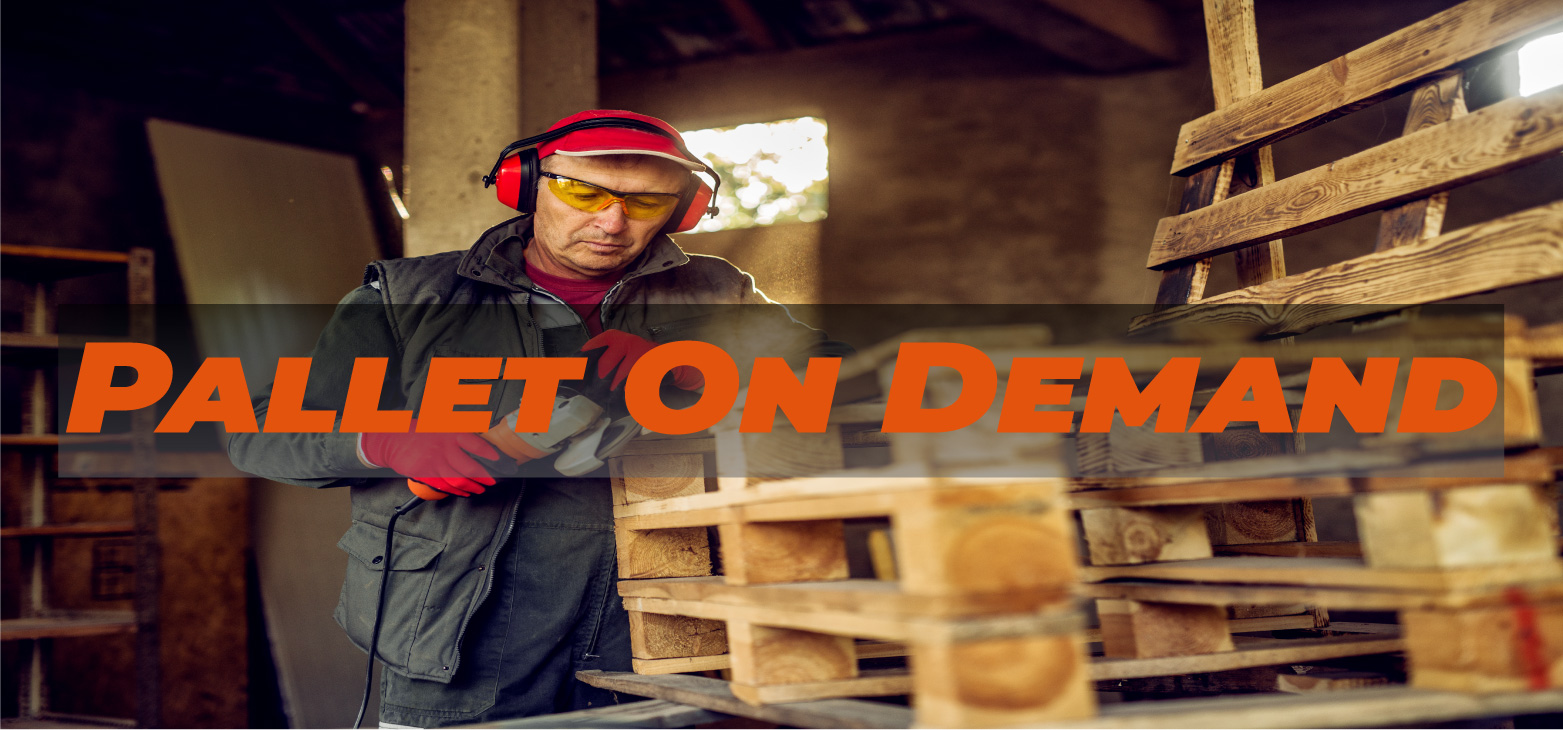
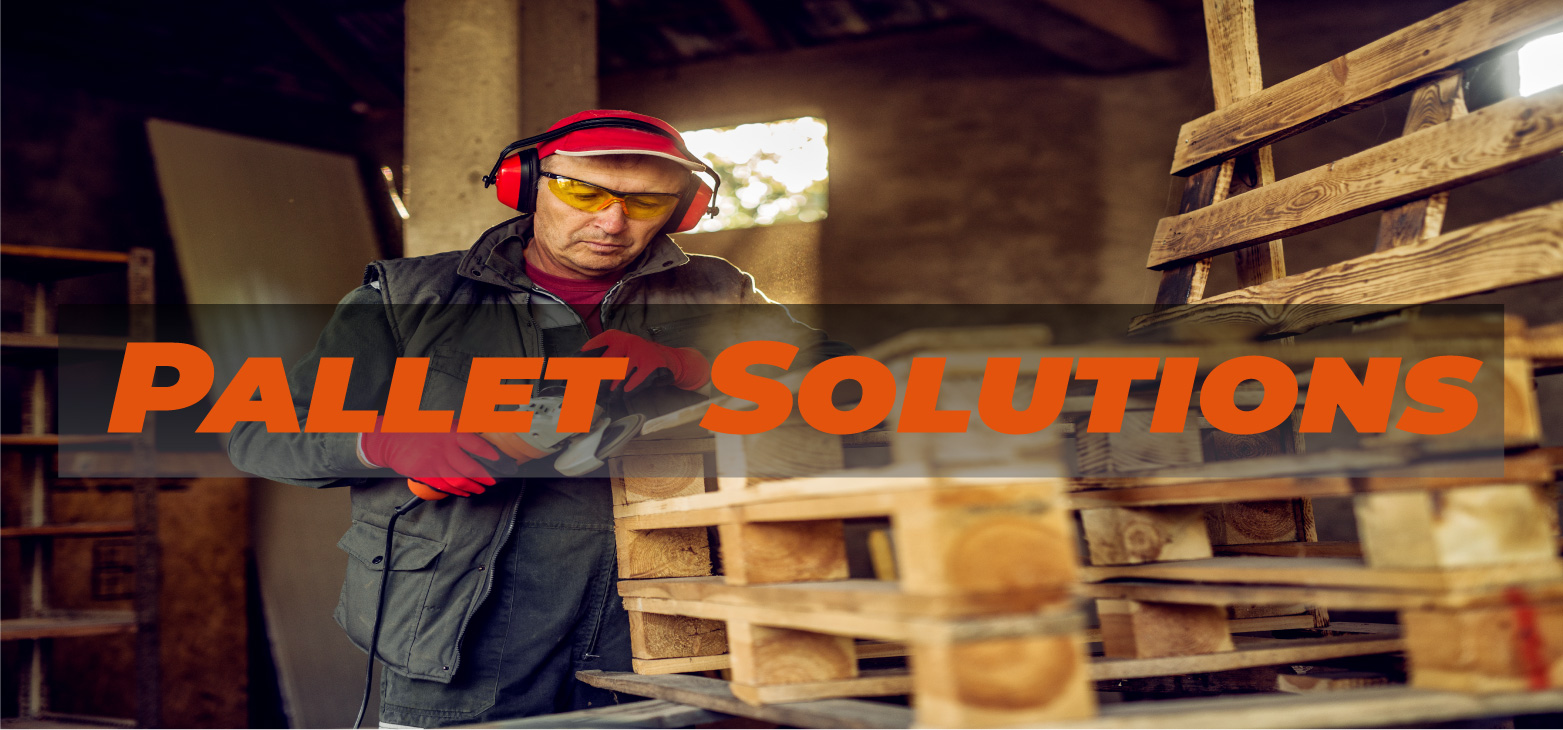
updated PALLET hero image, styled DEMOLITION tab, changed nav link object on mobile to orange (3 lines)

Changed region(s): [[0.0307, 0.4521, 0.8599, 0.6027], [0.8906, 0.4822, 0.9827, 0.6027]]

diff --git a/demolition.html b/demolition.html
@@ -158,17 +158,46 @@ id="purchasing"
     <!-- <h2 class="heading-secondary u-margin-bottom--4 u-text-center">
       Remodel Demoltion Service
     </h2> -->
-    <p class="primary-text u-margin-bottom--4 u-text-center">
+    <!-- <p class="primary-text u-margin-bottom--4 u-text-center">
         If you're looking
         to remodel your home or add more space to your house, call us for interior
         demolition services.
-    </p>
+    </p> -->
     <p class="primary-text u-margin-bottom--4 u-text-center">
         Serve On Demand® offers a range of services from bathroom removal, kitchen removal,
         and flooring removal services. Hire us to tear down the old so that you can move
         forward building your new vision. We can also clear old structures from your yard
         and demolish unused sheds.
     </p>
+    <!-- <p class="primary-text u-text-center u-margin-bottom--2">
+        Our team will handle the job quickly and never leave debris behind.
+        Learn more about interior demolition services by filling out the form below.
+    </p> -->
+      </div>
+    </div>
+  </section>
+
+  <!-- Remodel Demoltion 2-->
+<section
+class="purchasing-2 u-padding-top--8 u-padding-bottom--4 u-bg-primary-color"
+id="purchasing-2"
+>
+<div class="container">
+  <div class="purchasing-content u-padding-right--4 u-padding-left--4">
+    <!-- <h2 class="heading-secondary u-margin-bottom--4 u-text-center">
+      Remodel Demoltion Service
+    </h2> -->
+    <!-- <p class="primary-text u-margin-bottom--4 u-text-center">
+        If you're looking
+        to remodel your home or add more space to your house, call us for interior
+        demolition services.
+    </p> -->
+    <!-- <p class="primary-text u-margin-bottom--4 u-text-center">
+        Serve On Demand® offers a range of services from bathroom removal, kitchen removal,
+        and flooring removal services. Hire us to tear down the old so that you can move
+        forward building your new vision. We can also clear old structures from your yard
+        and demolish unused sheds.
+    </p> -->
     <p class="primary-text u-text-center u-margin-bottom--2">
         Our team will handle the job quickly and never leave debris behind.
         Learn more about interior demolition services by filling out the form below.

diff --git a/css/style_demolition.css b/css/style_demolition.css
@@ -40,6 +40,7 @@
     margin: 0;
     padding: 0;
     box-sizing: border-box;
+    color: #e3530d;
   }
   
   body {
@@ -1595,12 +1596,12 @@
   }
   
   .purchasing {
-    background: var(--bg-image-gradient-orange);
+    background: var(--bg-color-light-grey--1);
   }
   
   .purchasing .heading-secondary,
   .purchasing .primary-text {
-    color: var(--color-white);
+    color: var(--color-black);
   }
   
   .purchasing-2 {

diff --git a/css/style_contact.css b/css/style_contact.css
@@ -40,6 +40,7 @@
     margin: 0;
     padding: 0;
     box-sizing: border-box;
+    color: #e3530d;
   }
   
   body {

diff --git a/css/style_disinfecting.css b/css/style_disinfecting.css
@@ -40,6 +40,7 @@
     margin: 0;
     padding: 0;
     box-sizing: border-box;
+    color: #e3530d;
   }
   
   body {

diff --git a/css/style_employment.css b/css/style_employment.css
@@ -40,6 +40,7 @@
     margin: 0;
     padding: 0;
     box-sizing: border-box;
+    color: #e3530d;
   }
   
   body {

diff --git a/css/style_house.css b/css/style_house.css
@@ -40,6 +40,7 @@
     margin: 0;
     padding: 0;
     box-sizing: border-box;
+    color: #e3530d;
   }
   
   body {

diff --git a/css/junk_removal.css b/css/junk_removal.css
@@ -40,6 +40,7 @@
   margin: 0;
   padding: 0;
   box-sizing: border-box;
+  color: #e3530d;
 }
 
 body {

diff --git a/css/style.css b/css/style.css
@@ -40,6 +40,7 @@
   margin: 0;
   padding: 0;
   box-sizing: border-box;
+  color: #e3530d;
 }
 
 body {

diff --git a/css/style_bin.css b/css/style_bin.css
@@ -36,6 +36,7 @@
   margin: 0;
   padding: 0;
   box-sizing: border-box;
+  color: #e3530d;
 }
 
 body {

diff --git a/css/style_pallet.css b/css/style_pallet.css
@@ -40,6 +40,7 @@
   margin: 0;
   padding: 0;
   box-sizing: border-box;
+  color: #e3530d;
 }
 
 body {
